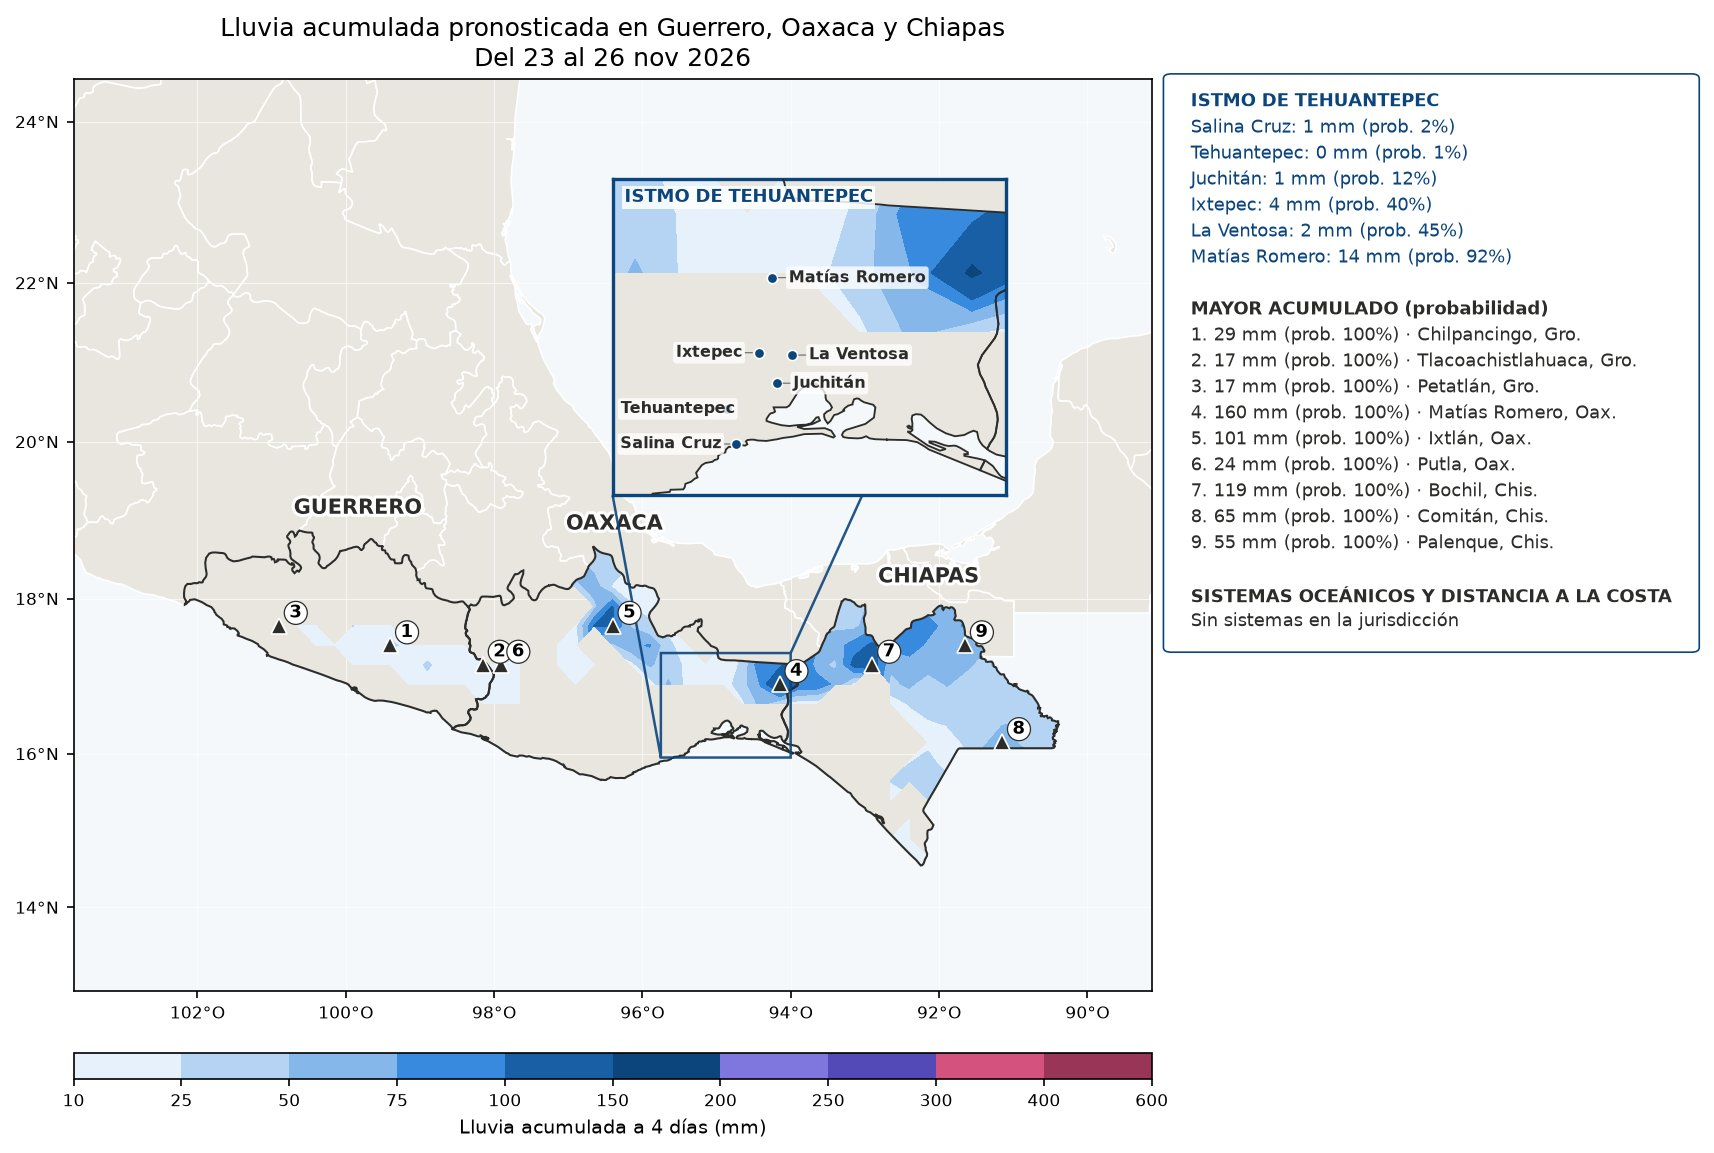
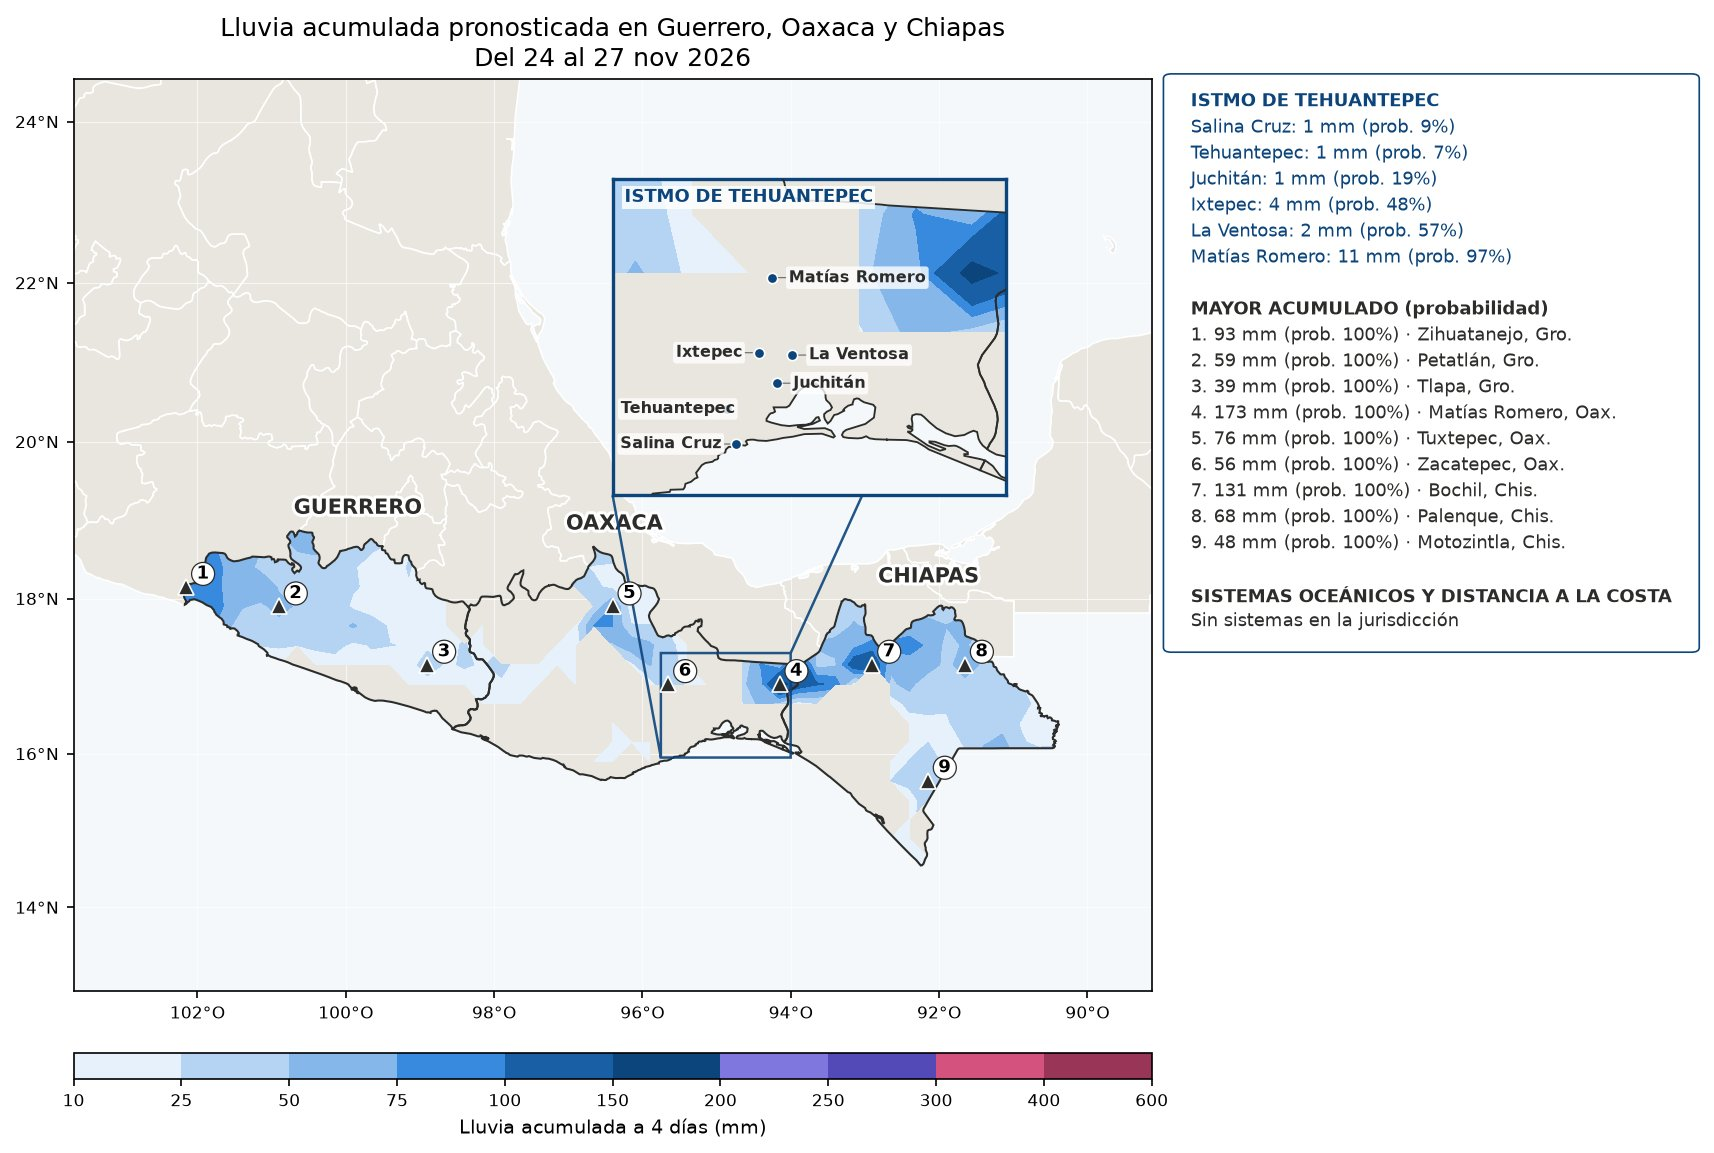
Monitor 24/11 02:00 (mapas nuevos)

diff --git a/index.html b/index.html
@@ -62,7 +62,7 @@ pre{overflow-x:auto;font-size:.75rem;background:var(--bg);padding:10px;border-ra
 <section class="t" id="sec_log"><details><summary>Registro (últimas líneas)</summary><pre id="log"></pre></details></section>
 </main>
 <div id="zoom"><img alt=""></div>
-<script id="datos" type="application/json">{"generado": "2026-11-24T01:27:04.293582", "ultima_revision": "2026-11-24T01:27:04.263317", "decision": "sin cambios", "ultima_imagen": "2026-11-23T19:30:07.878840", "motivo_imagen": "cambios acumulados en 3 h: modelo", "pendientes": [], "intervalo_h": 3, "resumen": {"ciclones": {}, "zonas": []}, "historial": [{"fecha": "2026-11-20T07:21:40.237879", "motivo": "cambios acumulados en 3 h: modelo"}, {"fecha": "2026-11-20T14:20:06.675740", "motivo": "cambios acumulados en 3 h: modelo"}, {"fecha": "2026-11-20T19:30:04.867078", "motivo": "cambios acumulados en 3 h: modelo"}, {"fecha": "2026-11-21T01:50:07.098904", "motivo": "cambios acumulados en 3 h: modelo"}, {"fecha": "2026-11-21T07:21:50.220671", "motivo": "cambios acumulados en 3 h: modelo"}, {"fecha": "2026-11-21T14:40:08.818482", "motivo": "cambios acumulados en 3 h: modelo"}, {"fecha": "2026-11-21T19:20:08.358428", "motivo": "cambios acumulados en 3 h: modelo"}, {"fecha": "2026-11-22T03:50:15.237902", "motivo": "cambios acumulados en 3 h: modelo"}, {"fecha": "2026-11-22T07:10:05.893921", "motivo": "cambios acumulados en 3 h: modelo"}, {"fecha": "2026-11-22T14:10:07.997683", "motivo": "cambios acumulados en 3 h: modelo"}, {"fecha": "2026-11-22T19:10:04.579703", "motivo": "cambios acumulados en 3 h: modelo"}, {"fecha": "2026-11-23T02:30:06.413520", "motivo": "cambios acumulados en 3 h: modelo"}, {"fecha": "2026-11-23T07:22:51.082651", "motivo": "cambios acumulados en 3 h: modelo"}, {"fecha": "2026-11-23T14:20:23.590167", "motivo": "cambios acumulados en 3 h: modelo"}, {"fecha": "2026-11-23T19:30:07.878840", "motivo": "cambios acumulados en 3 h: modelo"}], "imagenes": {"lluvia": {"src": "lluvia.jpg?v=202611231929", "fecha": "2026-11-23T19:29:59.638436"}, "viento": {"src": "viento.jpg?v=202611231930", "fecha": "2026-11-23T19:30:05.602928"}}, "log": [], "umbral_av": 50, "umbral_mal": 110}</script>
+<script id="datos" type="application/json">{"generado": "2026-11-24T02:00:09.099432", "ultima_revision": "2026-11-24T02:00:09.036834", "decision": "imágenes generadas", "ultima_imagen": "2026-11-24T02:00:09.036834", "motivo_imagen": "cambios acumulados en 3 h: modelo", "pendientes": [], "intervalo_h": 3, "resumen": {"ciclones": {}, "zonas": []}, "historial": [{"fecha": "2026-11-20T14:20:06.675740", "motivo": "cambios acumulados en 3 h: modelo"}, {"fecha": "2026-11-20T19:30:04.867078", "motivo": "cambios acumulados en 3 h: modelo"}, {"fecha": "2026-11-21T01:50:07.098904", "motivo": "cambios acumulados en 3 h: modelo"}, {"fecha": "2026-11-21T07:21:50.220671", "motivo": "cambios acumulados en 3 h: modelo"}, {"fecha": "2026-11-21T14:40:08.818482", "motivo": "cambios acumulados en 3 h: modelo"}, {"fecha": "2026-11-21T19:20:08.358428", "motivo": "cambios acumulados en 3 h: modelo"}, {"fecha": "2026-11-22T03:50:15.237902", "motivo": "cambios acumulados en 3 h: modelo"}, {"fecha": "2026-11-22T07:10:05.893921", "motivo": "cambios acumulados en 3 h: modelo"}, {"fecha": "2026-11-22T14:10:07.997683", "motivo": "cambios acumulados en 3 h: modelo"}, {"fecha": "2026-11-22T19:10:04.579703", "motivo": "cambios acumulados en 3 h: modelo"}, {"fecha": "2026-11-23T02:30:06.413520", "motivo": "cambios acumulados en 3 h: modelo"}, {"fecha": "2026-11-23T07:22:51.082651", "motivo": "cambios acumulados en 3 h: modelo"}, {"fecha": "2026-11-23T14:20:23.590167", "motivo": "cambios acumulados en 3 h: modelo"}, {"fecha": "2026-11-23T19:30:07.878840", "motivo": "cambios acumulados en 3 h: modelo"}, {"fecha": "2026-11-24T02:00:09.036834", "motivo": "cambios acumulados en 3 h: modelo"}], "imagenes": {"lluvia": {"src": "lluvia.jpg?v=202611240200", "fecha": "2026-11-24T02:00:01.201573"}, "viento": {"src": "viento.jpg?v=202611240200", "fecha": "2026-11-24T02:00:06.946698"}}, "log": [], "umbral_av": 50, "umbral_mal": 110}</script>
 <script>
 const D = JSON.parse(document.getElementById("datos").textContent);
 const $ = id => document.getElementById(id);
